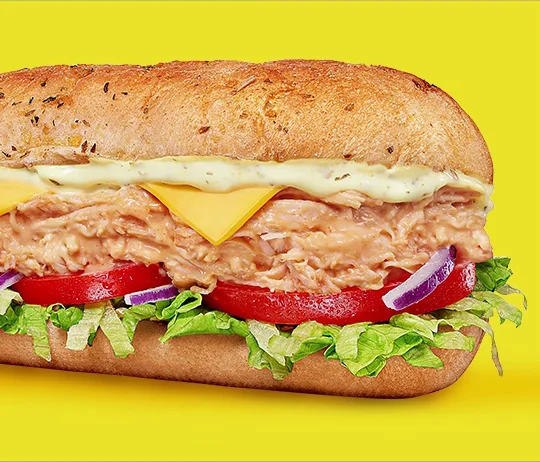
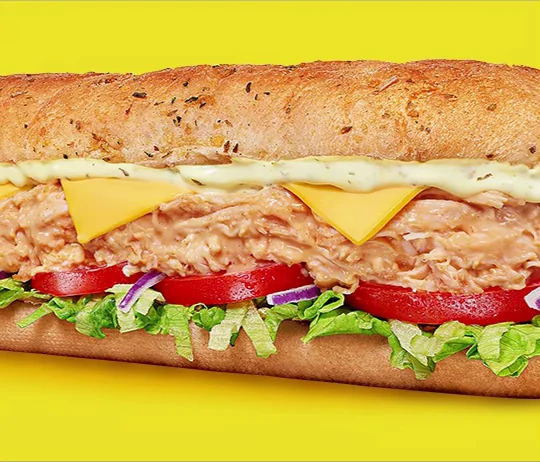
feat(assinatura): start the sandwich video 4 s in
All three food videos began on frame 0 together, so the sandwich moved in
step with the textures. It now starts 4 s into its 12 s cycle (its poster
is that frame). Chicken and Catupiry stay in sync as the agency animated
them: a pair moving in opposite directions.

diff --git a/assinatura/app/pages/index.vue b/assinatura/app/pages/index.vue
@@ -19,10 +19,15 @@ const KIOSK_HEIGHT = 1920
 // Bound with :src so Vue never builds the block from an HTML string: that
 // happens in an inert <template>, where Chrome rejects a <video> for good
 // ("Media load rejected by URL safety check"). See reloadFoodVideos().
+//
+// `start` offsets the sandwich (12 s there and back) so it does not move in
+// step with the textures. Chicken and Catupiry® stay in sync as delivered: the
+// agency animated them as a pair, moving in opposite directions.
+// Each poster is the frame at its `start`.
 const FOOD_VIDEOS = {
-  lanche: { src: '/videos/lanche.webm', poster: '/videos/lanche-poster.webp' },
-  frango: { src: '/videos/frango.webm', poster: '/videos/frango-poster.webp' },
-  catupiry: { src: '/videos/catupiry.webm', poster: '/videos/catupiry-poster.webp' },
+  lanche: { src: '/videos/lanche.webm', poster: '/videos/lanche-poster.webp', start: 4 },
+  frango: { src: '/videos/frango.webm', poster: '/videos/frango-poster.webp', start: 0 },
+  catupiry: { src: '/videos/catupiry.webm', poster: '/videos/catupiry-poster.webp', start: 0 },
 } as const
 const KIOSK_IMAGES = [
   '/images/bg.webp',
@@ -267,6 +272,12 @@ const foodRef = ref<HTMLElement | null>(null)
 // <template>, so its videos are parsed in an inert document and Chrome rejects
 // them before Vue moves them into the page (nothing is even requested). Loading
 // them again once they are live fixes it; later welcomes are built live.
+// Runs on every load (also the reload above), so each welcome starts staggered.
+function startFoodVideoAt(event: Event, seconds: number) {
+  const video = event.target as HTMLVideoElement
+  if (seconds > 0) video.currentTime = seconds
+}
+
 function reloadFoodVideos() {
   for (const video of foodRef.value?.querySelectorAll('video') ?? []) {
     if (video.error || video.networkState === HTMLMediaElement.NETWORK_EMPTY) video.load()
@@ -351,6 +362,7 @@ onBeforeUnmount(() => {
                 class="food-video food-video--lanche"
                 :src="FOOD_VIDEOS.lanche.src"
                 :poster="FOOD_VIDEOS.lanche.poster"
+                @loadedmetadata="startFoodVideoAt($event, FOOD_VIDEOS.lanche.start)"
                 autoplay muted loop playsinline preload="auto"
                 disablepictureinpicture disableremoteplayback tabindex="-1"
               />
@@ -360,6 +372,7 @@ onBeforeUnmount(() => {
                 class="food-video food-video--catupiry"
                 :src="FOOD_VIDEOS.catupiry.src"
                 :poster="FOOD_VIDEOS.catupiry.poster"
+                @loadedmetadata="startFoodVideoAt($event, FOOD_VIDEOS.catupiry.start)"
                 autoplay muted loop playsinline preload="auto"
                 disablepictureinpicture disableremoteplayback tabindex="-1"
               />
@@ -367,6 +380,7 @@ onBeforeUnmount(() => {
                 class="food-video food-video--frango"
                 :src="FOOD_VIDEOS.frango.src"
                 :poster="FOOD_VIDEOS.frango.poster"
+                @loadedmetadata="startFoodVideoAt($event, FOOD_VIDEOS.frango.start)"
                 autoplay muted loop playsinline preload="auto"
                 disablepictureinpicture disableremoteplayback tabindex="-1"
               />
